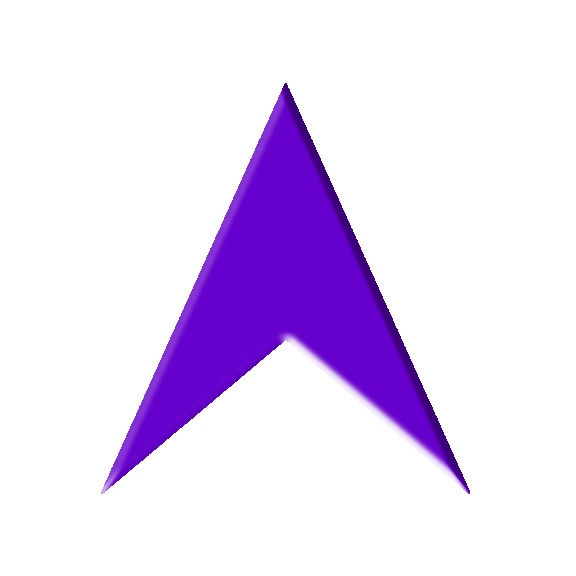
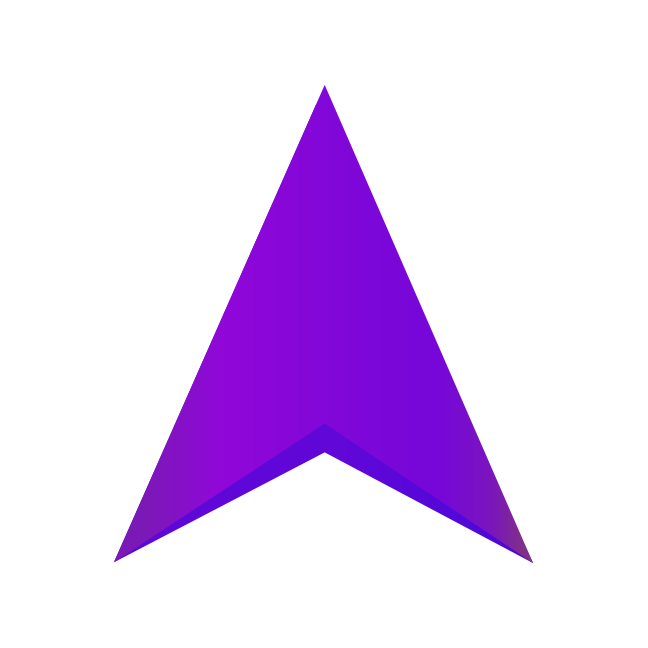
New geometry for 1080p. New graphics. FADE_RANGE parameter added to the top

Changed region(s): [[0.1562, 0.125, 0.8438, 0.875]]

diff --git a/main.py b/main.py
@@ -13,6 +13,7 @@ from render import record
 ATTACK = 100
 HOLD = ATTACK + 0 # delays release from the beggining of attack, hence attack + additional time 
 RELEASE = 1000
+FADE_RANGE = 1
 
 
 #=== ANIMATION PLAY ==========
@@ -114,14 +115,14 @@ class FadeInImage0(QLabel):
         self.animation = QtCore.QPropertyAnimation(self.effect, b"opacity")
         self.animation.setDuration(ATTACK)
         self.animation.setStartValue(0)
-        self.animation.setEndValue(1)
+        self.animation.setEndValue(FADE_RANGE)
         self.animation.start()
     def fadeOut(self):
         self.effect = QGraphicsOpacityEffect()
         self.setGraphicsEffect(self.effect)
         self.animation = QtCore.QPropertyAnimation(self.effect, b"opacity")
         self.animation.setDuration(RELEASE)
-        self.animation.setStartValue(1)
+        self.animation.setStartValue(FADE_RANGE)
         self.animation.setEndValue(0)
         self.animation.start()
 
@@ -290,7 +291,7 @@ class MyWindow(QWidget):
     def __init__(self):
         super(MyWindow, self).__init__()
         self.setWindowTitle('Anitrone')
-        self.setGeometry(200, 200, 820, 120)
+        self.setGeometry(0, 200, 1920, 220)
         self.setStyleSheet("background: black;")
         self.setLayout(grid)
         self.initUI()
@@ -380,36 +381,36 @@ btn6_image_counter = 0
 btn7_image_counter = 0
 
 image0 = QPixmap(resource_path('images/dot.png'))
-image0 = image0.scaledToWidth(120, Qt.SmoothTransformation)
-image0 = image0.scaledToHeight(120, Qt.SmoothTransformation)
+image0 = image0.scaledToWidth(220, Qt.SmoothTransformation)
+image0 = image0.scaledToHeight(220, Qt.SmoothTransformation)
 image1 = QPixmap(resource_path('images/down_full.png'))
-image1 = image1.scaledToWidth(120, Qt.SmoothTransformation)
-image1 = image1.scaledToHeight(120, Qt.SmoothTransformation)
+image1 = image1.scaledToWidth(220, Qt.SmoothTransformation)
+image1 = image1.scaledToHeight(220, Qt.SmoothTransformation)
 image2 = QPixmap(resource_path('images/down_open.png'))
-image2 = image2.scaledToWidth(120, Qt.SmoothTransformation)
-image2 = image2.scaledToHeight(120, Qt.SmoothTransformation)
+image2 = image2.scaledToWidth(220, Qt.SmoothTransformation)
+image2 = image2.scaledToHeight(220, Qt.SmoothTransformation)
 image3 = QPixmap(resource_path('images/up_full.png'))
-image3 = image3.scaledToWidth(120, Qt.SmoothTransformation)
-image3 = image3.scaledToHeight(120, Qt.SmoothTransformation)
+image3 = image3.scaledToWidth(220, Qt.SmoothTransformation)
+image3 = image3.scaledToHeight(220, Qt.SmoothTransformation)
 image4 = QPixmap(resource_path('images/up_open.png'))
-image4 = image4.scaledToWidth(120, Qt.SmoothTransformation)
-image4 = image4.scaledToHeight(120, Qt.SmoothTransformation)
+image4 = image4.scaledToWidth(220, Qt.SmoothTransformation)
+image4 = image4.scaledToHeight(220, Qt.SmoothTransformation)
 
 image0_glow = QPixmap(resource_path('images/dot_glow.png'))
-image0_glow = image0_glow.scaledToWidth(120, Qt.SmoothTransformation)
-image0_glow = image0_glow.scaledToHeight(120, Qt.SmoothTransformation)
+image0_glow = image0_glow.scaledToWidth(220, Qt.SmoothTransformation)
+image0_glow = image0_glow.scaledToHeight(220, Qt.SmoothTransformation)
 image1_glow = QPixmap(resource_path('images/down_full_glow.png'))
-image1_glow = image1_glow .scaledToWidth(120, Qt.SmoothTransformation)
-image1_glow = image1_glow .scaledToHeight(120, Qt.SmoothTransformation)
+image1_glow = image1_glow .scaledToWidth(220, Qt.SmoothTransformation)
+image1_glow = image1_glow .scaledToHeight(220, Qt.SmoothTransformation)
 image2_glow = QPixmap(resource_path('images/down_open_glow.png'))
-image2_glow = image2_glow .scaledToWidth(120, Qt.SmoothTransformation)
-image2_glow = image2_glow .scaledToHeight(120, Qt.SmoothTransformation)
+image2_glow = image2_glow .scaledToWidth(220, Qt.SmoothTransformation)
+image2_glow = image2_glow .scaledToHeight(220, Qt.SmoothTransformation)
 image3_glow = QPixmap(resource_path('images/up_full_glow.png'))
-image3_glow = image3_glow .scaledToWidth(120, Qt.SmoothTransformation)
-image3_glow = image3_glow .scaledToHeight(120, Qt.SmoothTransformation)
+image3_glow = image3_glow .scaledToWidth(220, Qt.SmoothTransformation)
+image3_glow = image3_glow .scaledToHeight(220, Qt.SmoothTransformation)
 image4_glow = QPixmap(resource_path('images/up_open_glow.png'))
-image4_glow = image4_glow .scaledToWidth(120, Qt.SmoothTransformation)
-image4_glow = image4_glow .scaledToHeight(120, Qt.SmoothTransformation)
+image4_glow = image4_glow .scaledToWidth(220, Qt.SmoothTransformation)
+image4_glow = image4_glow .scaledToHeight(220, Qt.SmoothTransformation)
 
 arr_images_base = [image0, image1, image2, image3, image4]
 arr_images_glow = [image0_glow, image1_glow, image2_glow, image3_glow, image4_glow]
